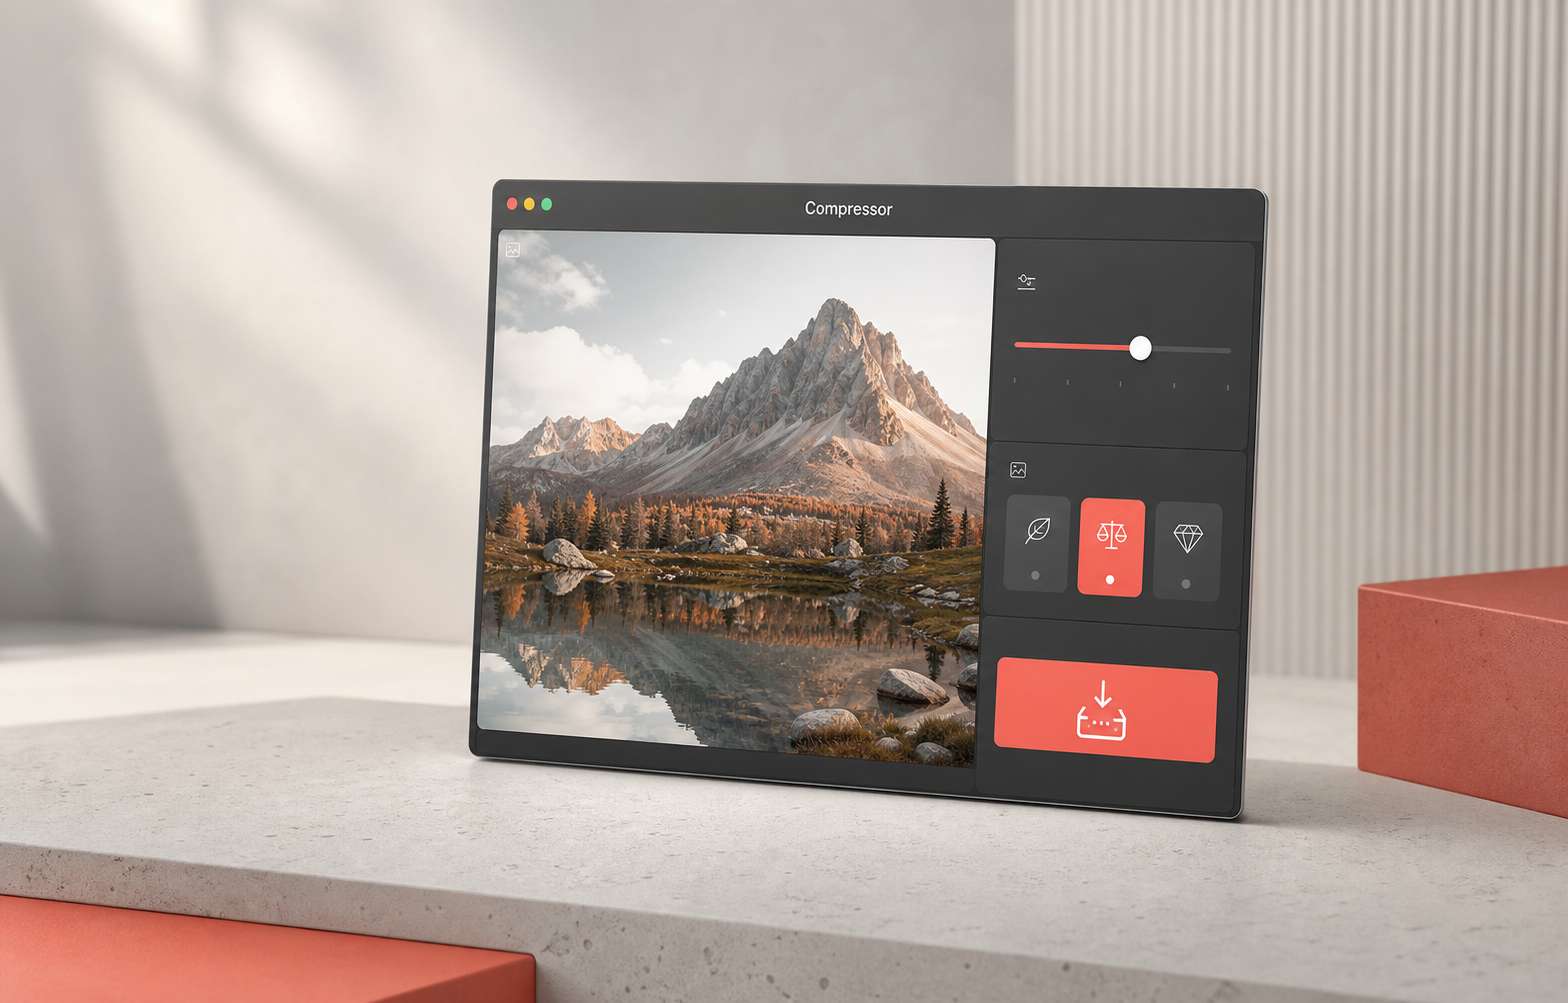
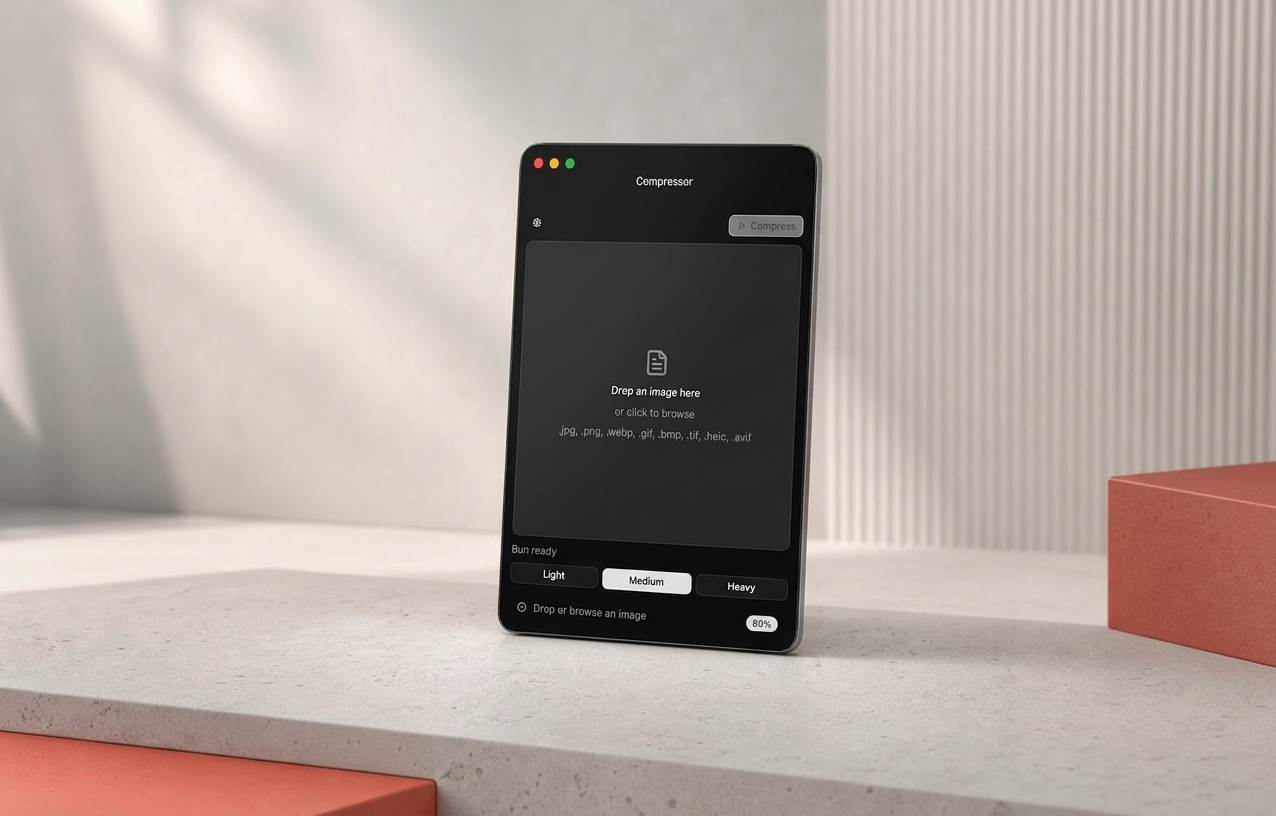
Polish Compressor landing CTAs, copy, and hero assets.
Add Lucide icons, center the final CTA icon, refresh the headline and GitHub star link, and switch the hero to WebP.

diff --git a/app/page.tsx b/app/page.tsx
@@ -1,20 +1,43 @@
 import Image from "next/image";
+import { Command, Star, type LucideProps } from "lucide-react";
 
 const macDownload =
   "https://github.com/sonnylazuardi/image-compressor-native-sdk/releases/download/v0.1.2/Compressor-macos-arm64.zip";
 const windowsDownload =
   "https://github.com/sonnylazuardi/image-compressor-native-sdk/releases/download/v0.1.2/Compressor-windows-x64.zip";
 
+function WindowsIcon({ size = 24, className }: Pick<LucideProps, "size" | "className">) {
+  return (
+    <svg
+      xmlns="http://www.w3.org/2000/svg"
+      width={size}
+      height={size}
+      viewBox="0 0 24 24"
+      fill="currentColor"
+      aria-hidden="true"
+      className={className}
+    >
+      <path d="M3 5.14 10.54 4v7.07H3V5.14Zm8.46-1.3L21 2.5v8.57h-9.54V3.84ZM3 12.79h7.54V19.9L3 18.8v-6.01Zm8.46 0H21V21.5l-9.54-1.4v-7.31Z" />
+    </svg>
+  );
+}
+
 function DownloadButtons({ compact = false }: { compact?: boolean }) {
   return (
     <div className={`download-buttons${compact ? " download-buttons--compact" : ""}`}>
       <a className="download-button download-button--primary" href={macDownload}>
         <span className="download-button__platform">macOS</span>
-        <span>Download for Mac</span>
+        <span className="download-button__label">
+          <Command aria-hidden size={18} strokeWidth={2} />
+          Download for Mac
+        </span>
       </a>
       <a className="download-button download-button--secondary" href={windowsDownload}>
         <span className="download-button__platform">Windows</span>
-        <span>Download for Windows</span>
+        <span className="download-button__label">
+          <WindowsIcon size={16} />
+          Download for Windows
+        </span>
       </a>
     </div>
   );
@@ -40,17 +63,17 @@ export default function Home() {
           <a href="#features">Why Compressor</a>
           <a
             className="nav-download"
-            href="https://github.com/sonnylazuardi/image-compressor-native-sdk/releases/tag/v0.1.2"
+            href="https://github.com/sonnylazuardi/image-compressor-native-sdk"
           >
-            View release
+            <Star aria-hidden size={15} strokeWidth={2.25} />
+            Star on GitHub
           </a>
         </nav>
       </header>
 
       <section className="hero" id="top">
         <div className="hero__copy">
-          <p className="eyebrow">Native image compression</p>
-          <h1>Smaller images. Same good taste.</h1>
+          <h1>Private. Native. Smaller images. Same good taste.</h1>
           <p className="hero__intro">
             Turn everyday images into lightweight WebP files, right on your desktop.
           </p>
@@ -61,7 +84,7 @@ export default function Home() {
           <div className="hero__image-wrap">
             <Image
               unoptimized
-              src="/compressor-hero.png"
+              src="/compressor-hero.webp"
               alt="Compressor app showing an image preview and quality controls"
               width={1536}
               height={1024}

diff --git a/app/globals.css b/app/globals.css
@@ -97,11 +97,18 @@ nav a:hover {
 }
 
 .nav-download {
+  display: inline-flex;
+  align-items: center;
+  gap: 7px;
   padding: 10px 16px;
   border: 1px solid var(--line);
   border-radius: 999px;
   color: var(--text);
   background: color-mix(in srgb, var(--surface) 72%, transparent);
+}
+
+.nav-download svg {
+  flex-shrink: 0;
 }
 
 .hero {
@@ -181,6 +188,16 @@ h1 {
   letter-spacing: 0.08em;
   opacity: 0.7;
   text-transform: uppercase;
+}
+
+.download-button__label {
+  display: inline-flex;
+  align-items: center;
+  gap: 8px;
+}
+
+.download-button__label svg {
+  flex-shrink: 0;
 }
 
 .download-button--primary {
@@ -514,6 +531,8 @@ footer a:focus-visible {
 }
 
 .final-cta > img {
+  display: block;
+  margin-inline: auto;
   margin-bottom: 30px;
   border-radius: 30px;
   box-shadow: 0 22px 40px var(--shadow);